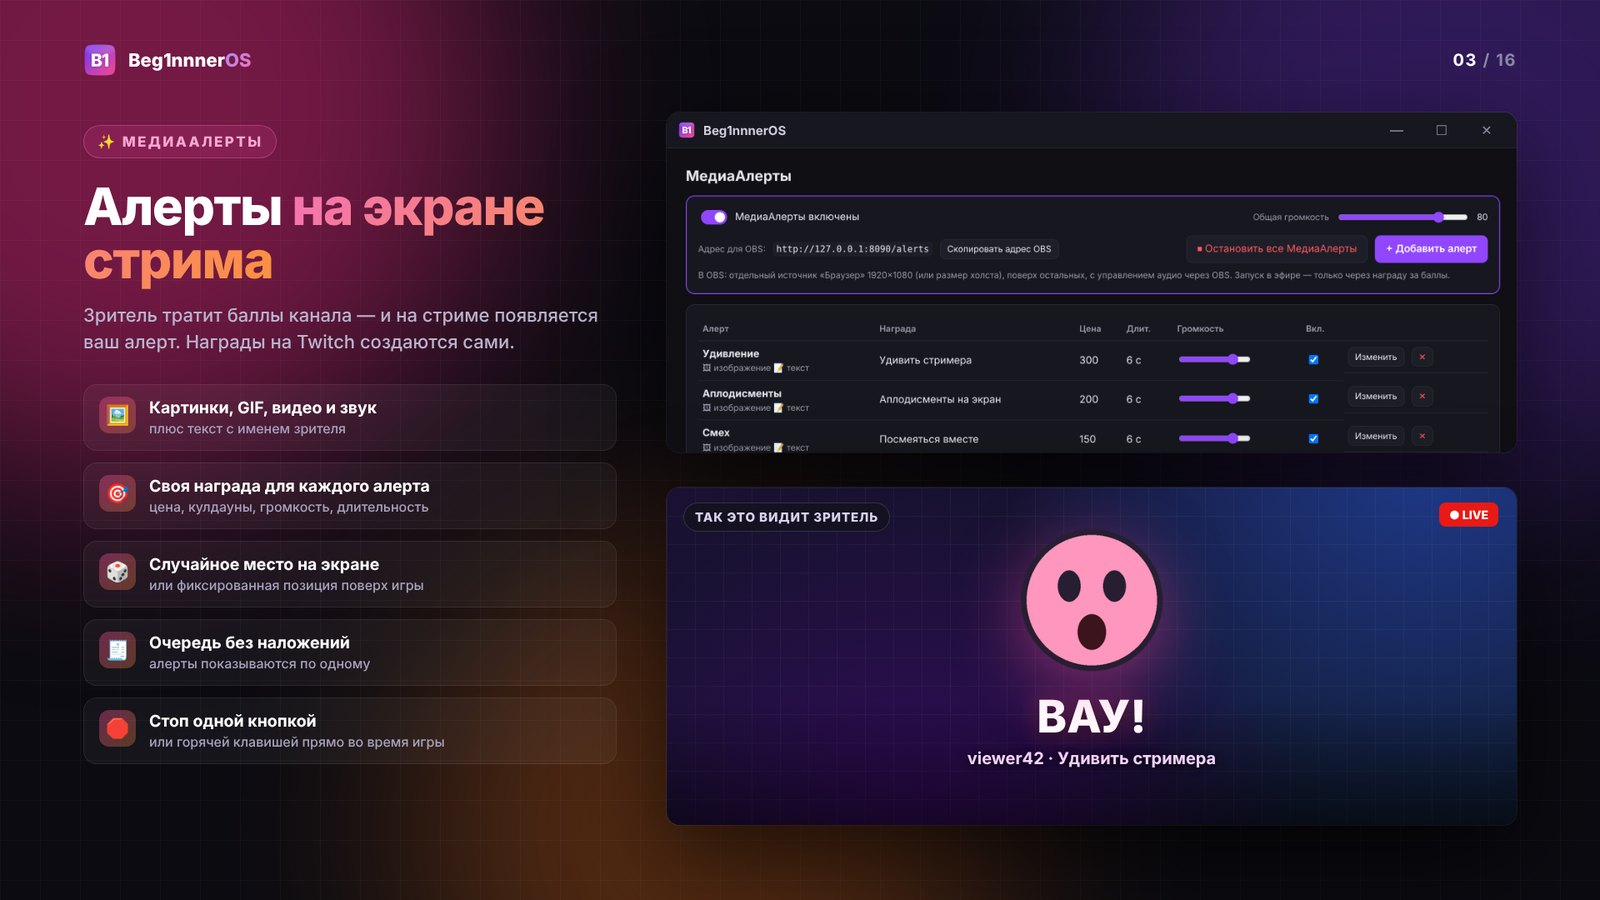
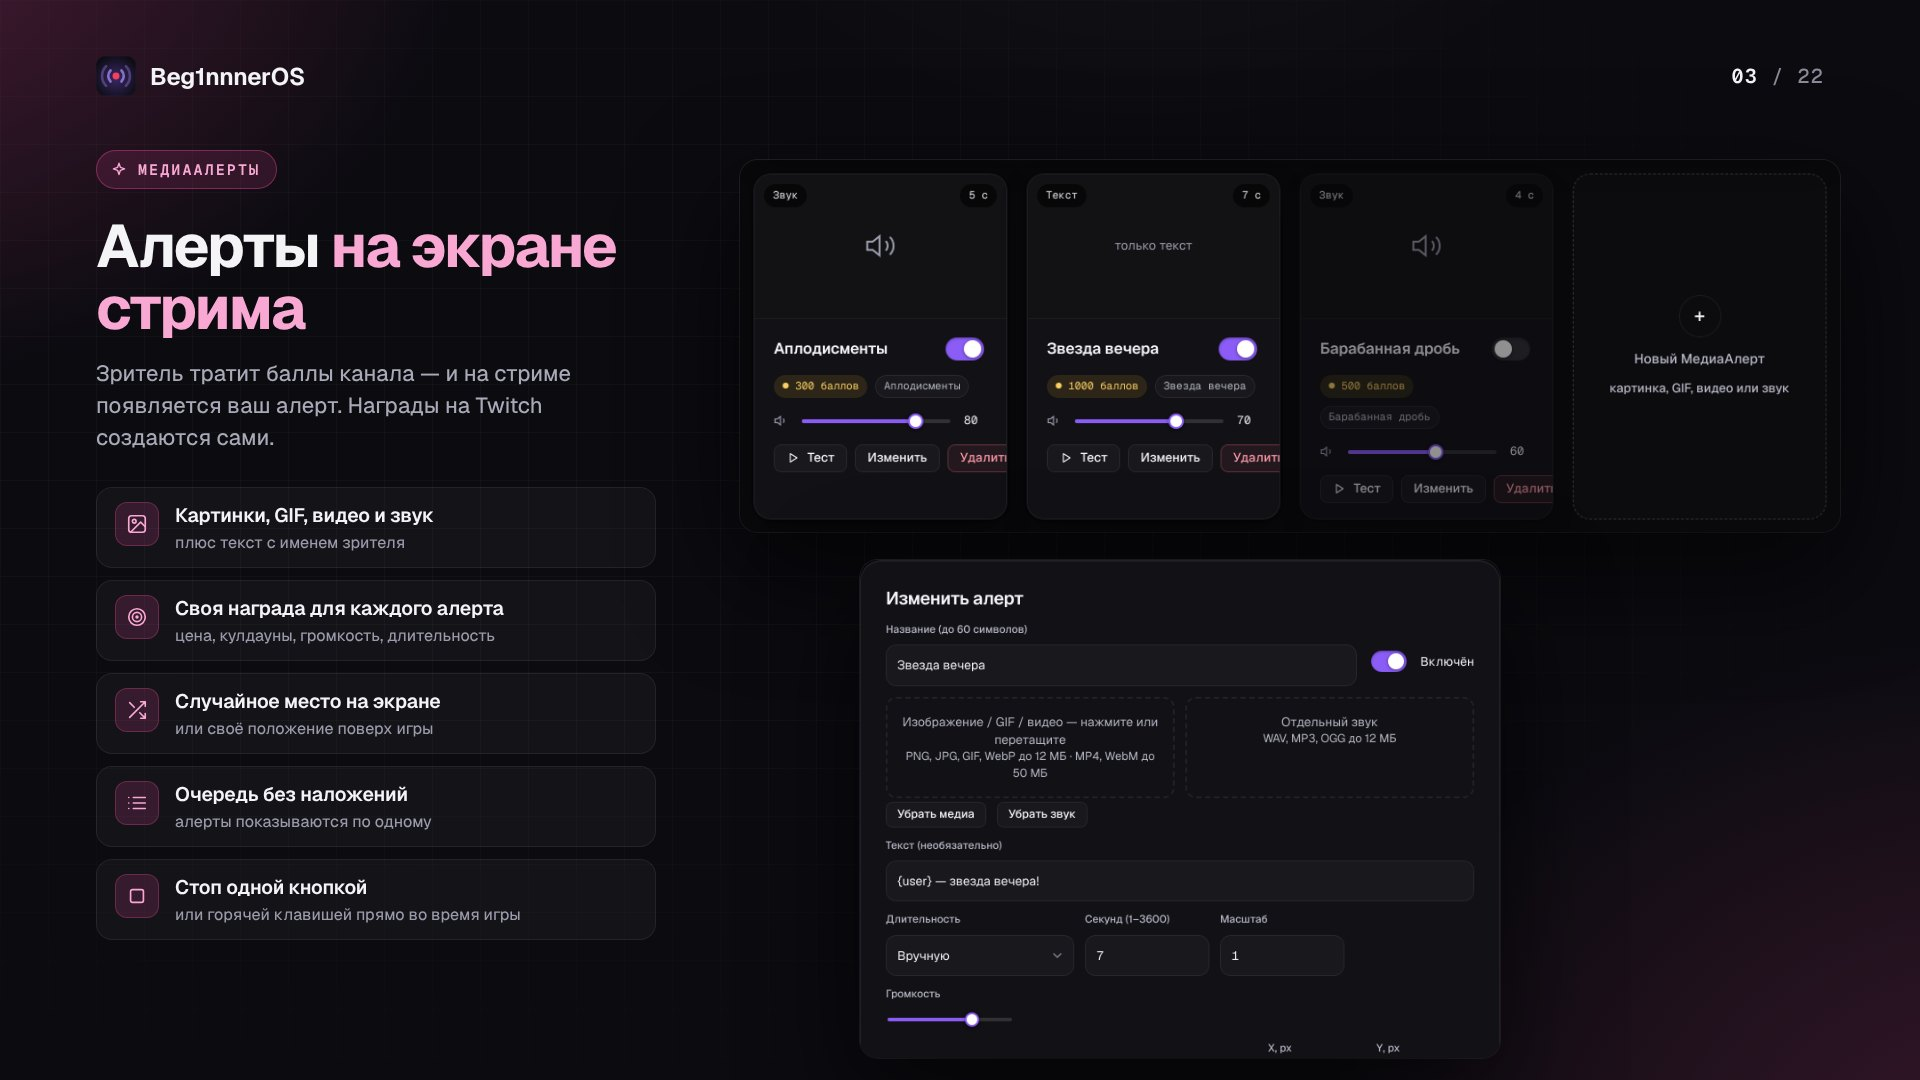
README: новые карточки функций на актуальном интерфейсе (22 штуки, включая функции 2.7)
Пример работы: у МедиаАлертов есть длительность и остальные поля, без «undefined с».

Claude-Session: https://claude.ai/code/session_01RZ6V7HFWmmBE9w2EjDowXt

diff --git a/wwwroot/demo.js b/wwwroot/demo.js
@@ -102,9 +102,9 @@
   }
   function alerts() {
     return {items: [
-      {id: "da1", name: L("Аплодисменты", "Applause"), media: "", media_kind: null, sound: "applause.mp3", text: "{user}!", cost: 300, reward_title: L("Аплодисменты", "Applause"), enabled: true, volume: 80},
-      {id: "da2", name: L("Звезда вечера", "Star of the night"), media: "", media_kind: null, sound: "", text: L("{user} — звезда вечера!", "{user} is the star of the night!"), cost: 1000, reward_title: L("Звезда вечера", "Star of the night"), enabled: true, volume: 70},
-      {id: "da3", name: L("Барабанная дробь", "Drum roll"), media: "", media_kind: null, sound: "drums.mp3", text: "", cost: 500, reward_title: L("Барабанная дробь", "Drum roll"), enabled: false, volume: 60},
+      {id: "da1", name: L("Аплодисменты", "Applause"), media: "", media_kind: null, sound: "applause.mp3", text: "{user}!", cost: 300, reward_title: L("Аплодисменты", "Applause"), enabled: true, volume: 80, duration: 5, duration_mode: "manual", scale: 1, x: 760, y: 340, random_pos: false, cooldown_global: 30, cooldown_user: 120},
+      {id: "da2", name: L("Звезда вечера", "Star of the night"), media: "", media_kind: null, sound: "", text: L("{user} — звезда вечера!", "{user} is the star of the night!"), cost: 1000, reward_title: L("Звезда вечера", "Star of the night"), enabled: true, volume: 70, duration: 7, duration_mode: "manual", scale: 1, x: 760, y: 340, random_pos: false, cooldown_global: 30, cooldown_user: 120},
+      {id: "da3", name: L("Барабанная дробь", "Drum roll"), media: "", media_kind: null, sound: "drums.mp3", text: "", cost: 500, reward_title: L("Барабанная дробь", "Drum roll"), enabled: false, volume: 60, duration: 4, duration_mode: "manual", scale: 1, x: 760, y: 340, random_pos: false, cooldown_global: 30, cooldown_user: 120},
     ], pending: [], clients: 1};
   }
   function stats(period) {

diff --git a/README.md b/README.md
@@ -13,7 +13,7 @@
 
 ### 🎵 Музыка за баллы канала
 
-Зрители заказывают треки с YouTube, Яндекс Музыки и Spotify ссылкой или названием. Лимиты, фильтры, голосование !skip, приоритет VIP и подписчиков, честный возврат баллов.
+Зрители заказывают треки с YouTube, Яндекс Музыки и Spotify ссылкой или названием. Лимиты, фильтры, голосование !skip, приоритет VIP и подписчиков, честный возврат баллов. Карточка «Сейчас играет» окрашивается в цвет обложки трека.
 
 ![🎵 Музыка за баллы канала](docs/img/01-music.jpg)
 
@@ -31,25 +31,25 @@
 
 ### 🔔 События и DonationAlerts
 
-Бот благодарит за фолловы, подписки, биты, рейды и донаты по вашим шаблонам; пауза уведомлений одной кнопкой.
+Бот благодарит за фолловы, подписки, биты, рейды и донаты по вашим шаблонам и показывает события на экране стрима; пауза уведомлений одной кнопкой.
 
 ![🔔 События и DonationAlerts](docs/img/04-events.jpg)
 
 ### 🎬 Оверлеи для OBS
 
-Плеер «Сейчас играет» и чат с 7TV/BTTV/FFZ — по 7 готовых тем, удалённые модераторами сообщения пропадают и с экрана.
+Плеер «Сейчас играет» и чат с 7TV/BTTV/FFZ — по 8 готовых тем, удалённые модераторами сообщения пропадают и с экрана.
 
 ![🎬 Оверлеи для OBS](docs/img/05-obs-overlays.jpg)
 
 ### 🧰 Инструменты
 
-Shazam в чате, перевод чата, исправление раскладки, глобальные горячие клавиши, темы программы, работа в трее.
+Shazam в чате, перевод чата, исправление раскладки, глобальные горячие клавиши, 8 тем программы, работа в трее.
 
 ![🧰 Инструменты](docs/img/06-tools.jpg)
 
 ### 🚀 Дополнительно
 
-Статистика стримов с графиком зрителей, розыгрыши, профили для нескольких каналов и копия в облачную папку.
+Статистика стримов, розыгрыши и мини-игры, профили для нескольких каналов и копия в облачную папку.
 
 ![🚀 Дополнительно](docs/img/07-extra.jpg)
 
@@ -61,13 +61,13 @@ Shazam в чате, перевод чата, исправление раскла
 
 ### 🧭 Простой старт
 
-Вход через Twitch по коду без своих ключей, мастер первого запуска, проверка связи с YouTube, автообновление, отчёт об ошибке.
+Вход через Twitch по коду без своих ключей, мастер первого запуска, проверка перед эфиром, автообновление, отчёт об ошибке.
 
 ![🧭 Простой старт](docs/img/09-quick-start.jpg)
 
 ### 🎨 Конструктор тем
 
-Около 40 настроек плеера и чата с живым предпросмотром, 12 палитр, код темы для обмена, 14 звуков нового заказа.
+Свои темы плеера, чата и колеса фортуны с живым предпросмотром, 12 палитр, код темы для обмена.
 
 ![🎨 Конструктор тем](docs/img/10-themes.jpg)
 
@@ -83,11 +83,11 @@ Shazam в чате, перевод чата, исправление раскла
 
 ![🗳 Опросы и прогнозы Twitch](docs/img/12-polls.jpg)
 
-### 🛡 Фильтр спама и ссылок
+### 🛡 Модерация
 
-Ссылки, запрещённые слова (даже замаскированные), капс, повторы и флуд — предупреждение, удаление или таймаут; журнал срабатываний.
+Ссылки, запрещённые слова (даже замаскированные), капс, повторы и флуд — предупреждение, удаление или таймаут. Заявки на разбан и подозрительные аккаунты — прямо в программе.
 
-![🛡 Фильтр спама и ссылок](docs/img/13-moderation.jpg)
+![🛡 Модерация](docs/img/13-moderation.jpg)
 
 ### ⇩ Импорт команд
 
@@ -97,37 +97,51 @@ Shazam в чате, перевод чата, исправление раскла
 
 ### 🎚 Музыка как на радио
 
-Плавные переходы между треками, лайк трека в резервный плейлист, очередь не теряется при вылете, Яндекс Музыка, если YouTube не работает.
+Плавные переходы между треками, лайк трека в резервный плейлист, очередь не теряется при сбое, Яндекс Музыка, если YouTube не работает.
 
-![🎚 Музыка как на радио](docs/img/15-music-2-5.jpg)
+![🎚 Музыка как на радио](docs/img/15-music-radio.jpg)
 
 ### 💬 Субтитры речи
 
 Программа слушает ваш микрофон и выводит речь текстом на экран стрима — распознавание на вашем компьютере (Whisper или Vosk), без интернета. Можно сразу показывать перевод на английский.
 
-![💬 Субтитры речи](docs/img/17-subtitles.jpg)
+![💬 Субтитры речи](docs/img/16-subtitles.jpg)
 
 ### 🎡 Колесо фортуны
 
 Источник для OBS `/wheel`: колесо появляется только во время вращения, крутится 5–8 секунд со звуком и показывает результат. Несколько колёс, у секторов — вес, цвет и действие (сообщение в чат, МедиаАлерт, таймаут). Запуск кнопкой, из док-панели, горячей клавишей, наградой за баллы, донатом от суммы или командой `!wheel`; очередь, пауза между запусками и лимит на зрителя. Розыгрыш можно провести «Колесом» — победителя выбирает программа из всех участников.
 
+![🎡 Колесо фортуны](docs/img/17-wheel.jpg)
+
 ### 🎙 Голосовые команды
 
 «Бот, следующий трек», «бот, пауза», «бот, продолжай», «бот, сделай клип» — на том же распознавании, что и субтитры, без интернета. Слово активации обязательно, свои варианты фраз, команды не попадают в субтитры.
+
+![🎙 Голосовые команды](docs/img/18-voice.jpg)
 
 ### 🙈 Безопасно для стрима
 
 Один щелчок по глазу в шапке (или Ctrl+Alt+H) прячет ключи, токены, адреса OBS и пути к папкам — можно показывать панель на стриме. Кнопки «Скопировать» продолжают работать.
 
+![🙈 Безопасно для стрима](docs/img/19-stream-safe.jpg)
+
 ### 🧩 Свой «Эфир» и пример работы
 
-Карточки «Эфира» можно переставлять, закреплять и скрывать (мышью или с клавиатуры). Кнопка «Показать на примере» заполняет панель вымышленными данными — удобно посмотреть программу до входа в Twitch. Карточка «Сейчас играет» берёт цвет обложки трека.
+Карточки «Эфира» можно переставлять, закреплять и скрывать (мышью или с клавиатуры). Кнопка «Показать на примере» заполняет панель вымышленными данными — удобно посмотреть программу до входа в Twitch.
+
+![🧩 Свой «Эфир»](docs/img/20-live-layout.jpg)
+
+### 📱 Пульт с телефона и проверка перед эфиром
+
+QR-код — и телефон в той же сети Wi-Fi становится пультом: музыка, громкость, алерты и чат. Перед эфиром одна кнопка проверяет вход, чат, события, источники OBS, звук и YouTube и подсказывает, где исправить.
+
+![📱 Пульт с телефона и проверка перед эфиром](docs/img/21-remote.jpg)
 
 ### 🌐 English
 
 Английский язык: панель, источники OBS, ответы бота в чате и посты в Telegram/Discord.
 
-![🌐 English](docs/img/16-english.jpg)
+![🌐 English](docs/img/22-english.jpg)
 
 ---
 
